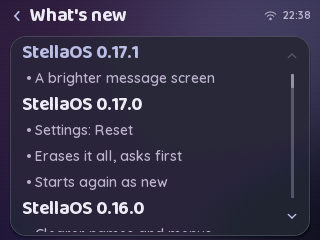
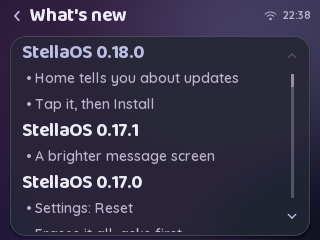
Home tells you about updates: a card when one is ready, installing, or waiting for a restart
A tap opens Settings > About > Software update; nothing installs from Home. A
version the person has looked at is not offered again until a restart or a newer
version. Wi-Fi setup and the time-zone question still come first. The simulator's
update server now offers a version newer than the running one, so the update
screenshots show an offer again.

Claude-Session: https://claude.ai/code/session_01WrCzyR31TQn5da2N4PH2yW

diff --git a/src/stella/apps/launcher.cpp b/src/stella/apps/launcher.cpp
@@ -70,7 +70,7 @@ void LauncherApp::syncLayout(AppContext &ctx) {
 void LauncherApp::save(AppContext &ctx) { ctx.saveAppRecord("layout", HomeLayoutRecord::kVersion, &layout_, sizeof(layout_)); }
 
 void LauncherApp::onTopic(uint16_t topicId, AppContext &ctx) {
-  if (topicId == topics::kNetwork) home_.refreshText(ctx);
+  if (topicId == topics::kNetwork || topicId == topics::kUpdate) home_.refreshText(ctx);
 }
 
 int LauncherApp::HomeScreen::pageCount() const {
@@ -246,9 +246,14 @@ void LauncherApp::HomeScreen::refreshText(AppContext &ctx) {
   const NetworkStatus net = ctx.network().status();
   const bool wifiSetup = net.present && net.state == WifiState::NotConfigured;
   const bool zoneAsk = !wifiSetup && net.present && net.connected && !ctx.status().zoneChosen;
-  const bool setup = wifiSetup || zoneAsk;
-  if (setup != setupNote_ || zoneAsk != noteZone_) {
+  // An update: offered (until the person has looked at it), installing, or waiting for a restart.
+  const UpdateStatus up = ctx.update().status();
+  const bool offered = up.state == UpdateState::Available && strcmp(up.version, seenOffer_) != 0;
+  const bool updateNote = !wifiSetup && !zoneAsk && (offered || up.state == UpdateState::Downloading || up.state == UpdateState::Ready);
+  const bool setup = wifiSetup || zoneAsk || updateNote;
+  if (setup != setupNote_ || zoneAsk != noteZone_ || updateNote != noteUpdate_) {
     noteZone_ = zoneAsk;
+    noteUpdate_ = updateNote;
     setupNote_ = setup;
     arrange();
     if (page_ >= pageCount()) page_ = 0;
@@ -260,6 +265,17 @@ void LauncherApp::HomeScreen::refreshText(AppContext &ctx) {
   } else if (zoneAsk) {
     snprintf(title, sizeof(title), "Choose your time zone");
     snprintf(text, sizeof(text), "So the clock and weather match you");
+  } else if (updateNote) {
+    if (up.state == UpdateState::Downloading) {
+      snprintf(title, sizeof(title), "Installing the update");
+      snprintf(text, sizeof(text), "%u%% \xc2\xb7 keep it powered", (unsigned)up.percent);
+    } else if (up.state == UpdateState::Ready) {
+      snprintf(title, sizeof(title), "Update ready");
+      snprintf(text, sizeof(text), "Restart to use %.15s", up.version);
+    } else {
+      snprintf(title, sizeof(title), "Update available");
+      snprintf(text, sizeof(text), "StellaOS %.15s is ready to install", up.version);
+    }
   } else if (now.valid) {
     const MoonPhase moon = moonPhase(now.epoch);
     snprintf(title, sizeof(title), "%s", moon.name);
@@ -336,7 +352,7 @@ void LauncherApp::HomeScreen::draw(Canvas &c, const Theme &t) {
     const int r = t.m.icon / 2 + t.dp(2);
     if (notePressed_) c.fillRoundRect(note_, t.m.radiusCard, p.accent, 40);
     paintBubble(c, t, inner.x + r, inner.centerY(), r, setupNote_ ? 2 : 1);
-    (noteZone_ ? icons::clock : setupNote_ ? icons::wifi : icons::moon)(c, center(Rect(inner.x, inner.y, 2 * r, inner.h), t.dp(16), t.dp(16)),
+    (noteUpdate_ ? icons::sparkle : noteZone_ ? icons::clock : setupNote_ ? icons::wifi : icons::moon)(c, center(Rect(inner.x, inner.y, 2 * r, inner.h), t.dp(16), t.dp(16)),
                                              p.accent);
     inner = Rect(inner.x + 2 * r + t.m.gapM, inner.y, inner.w - 2 * r - t.m.gapM, inner.h);
     Rect lines[2];
@@ -370,7 +386,13 @@ void LauncherApp::HomeScreen::draw(Canvas &c, const Theme &t) {
 bool LauncherApp::HomeScreen::onEvent(const Event &e, AppContext &ctx) {
   const Theme &t = ctx.theme();
   if (setupNote_ && trackPress(note_, e, notePressed_, ctx, note_.inset(-glassOutset(t)))) {
-    ctx.launch("settings", noteZone_ ? "time" : "wifi");
+    if (noteUpdate_) {
+      const UpdateStatus up = ctx.update().status();
+      if (up.state == UpdateState::Available) copyText(seenOffer_, sizeof(seenOffer_), up.version);  // looked at: no more nudges for it
+      ctx.launch("settings", "update");
+    } else {
+      ctx.launch("settings", noteZone_ ? "time" : "wifi");
+    }
     return true;
   }
   if (!pager_.empty()) {

diff --git a/tests/test_update.cpp b/tests/test_update.cpp
@@ -603,3 +603,79 @@ TEST(a_failed_install_leaves_no_crumb) {
   uint8_t stage = 0, percent = 0;
   CHECK(!update_crumb::take(&s.dev.platform, stage, percent));
 }
+
+// ---------------------------------------------------------------- Home tells you
+
+namespace {
+const char *topTitleOf(SimSession &s) { return s.os.topScreen() && s.os.topScreen()->title() ? s.os.topScreen()->title() : ""; }
+void tapNote(SimSession &s) {
+  const Rect r = s.launcher.noteBounds();
+  s.tap(r.centerX(), r.centerY());
+}
+}  // namespace
+
+TEST(home_says_when_an_update_is_ready_and_a_tap_opens_the_update_screen) {
+  SimSession s(320, 240);
+  s.os.goHome();
+  s.run(300);
+  CHECK(!has(s.launcher.noteTitle(), "Update"));  // nothing offered: the usual card
+  serve(s, Offer{});
+  CHECK(runCheck(s).state == UpdateState::Available);
+  s.os.goHome();
+  s.run(300);
+  CHECK(strcmp(s.launcher.noteTitle(), "Update available") == 0);
+  CHECK(has(s.launcher.noteText(), "99.0.0"));
+  tapNote(s);
+  s.run(200);
+  CHECK(strcmp(s.os.foreground()->info().id, "settings") == 0 && strcmp(topTitleOf(s), "Software update") == 0);
+  // Nothing was installed by looking: the person decides there.
+  CHECK(s.os.update().status().state == UpdateState::Available);
+  CHECK(!s.dev.firmware.finished);
+  // Back on Home the card has said its piece and does not nag about the same version again.
+  s.os.goHome();
+  s.run(300);
+  CHECK(!has(s.launcher.noteTitle(), "Update"));
+}
+
+TEST(home_follows_an_install_and_asks_for_the_restart) {
+  SimSession s(320, 240);
+  serve(s, Offer{});
+  runCheck(s);
+  s.os.goHome();
+  s.run(300);
+  s.os.update().install();  // (the simulated download is over within one step, so "Installing" cannot be caught here)
+  s.run(8000);
+  CHECK(s.os.update().status().state == UpdateState::Ready);
+  CHECK(strcmp(s.launcher.noteTitle(), "Update ready") == 0);
+  CHECK(has(s.launcher.noteText(), "Restart"));
+  tapNote(s);
+  s.run(200);
+  CHECK(strcmp(topTitleOf(s), "Software update") == 0);  // where Restart now is
+  CHECK_EQ(s.dev.platform.restarts(), 0);                // a tap on Home never restarts the device
+}
+
+TEST(a_seen_offer_returns_for_a_newer_version_and_the_time_zone_question_comes_first) {
+  SimSession s(320, 240);
+  serve(s, Offer{});
+  runCheck(s);
+  s.os.goHome();
+  s.run(300);
+  tapNote(s);  // looked at 99.0.0
+  s.os.goHome();
+  s.run(300);
+  CHECK(!has(s.launcher.noteTitle(), "Update"));
+  Offer newer;
+  newer.version = "99.1.0";
+  serve(s, newer);
+  runCheck(s);
+  s.os.goHome();
+  s.run(300);
+  CHECK(strcmp(s.launcher.noteTitle(), "Update available") == 0 && has(s.launcher.noteText(), "99.1.0"));
+  // A new device is asked for its time zone before anything else.
+  SimSession fresh(320, 240, kEveningEpoch, Appearance::Auto, false, true, false, /*newDevice=*/true);
+  serve(fresh, Offer{});
+  runCheck(fresh);
+  fresh.os.goHome();
+  fresh.run(300);
+  CHECK(strcmp(fresh.launcher.noteTitle(), "Choose your time zone") == 0);
+}

diff --git a/src/stella/apps/launcher.h b/src/stella/apps/launcher.h
@@ -46,6 +46,8 @@ class LauncherApp : public App {
   bool headerFits() const { return home_.wordsFit(); }
   static int labelInset(const Theme &t) { return t.dp(2); }  // a tile's name may use all but this much of its width
   Rect noteBounds() const { return home_.noteRect(); }  // the invitation under the apps (tests, screenshots)
+  const char *noteTitle() const { return home_.noteTitle(); }
+  const char *noteText() const { return home_.noteText(); }
   Rect greetingRect() const { return home_.greetingRect(); }
   Rect dateRect() const { return home_.dateRect(); }
 
@@ -70,6 +72,8 @@ class LauncherApp : public App {
     Rect greetingRect() const { return greeting_; }
     Rect dateRect() const { return date_; }
     Rect noteRect() const { return note_; }
+    const char *noteTitle() const { return noteTitle_; }
+    const char *noteText() const { return noteText_; }
     bool wordsFit() const { return chooseWords(theme_).fits; }  // the header text is not cut off
 
    private:
@@ -94,8 +98,10 @@ class LauncherApp : public App {
     bool pagerBelow_ = false;   // in the row of page dots, when the header is too narrow for them
     int columns_ = 3, rows_ = 2, gap_ = 8, page_ = 0, pressed_ = -1;
     char timeText_[16] = {0}, greetingText_[32] = {0}, greetingShort_[16] = {0}, dateShort_[24] = {0}, dateText_[48] = {0}, noteTitle_[32] = {0}, noteText_[48] = {0};
-    bool setupNote_ = false, notePressed_ = false;  // the note invites something: Wi-Fi setup or choosing a time zone
+    bool setupNote_ = false, notePressed_ = false;  // the note invites something: Wi-Fi setup, a time zone, or an update
     bool noteZone_ = false;                          // ... and this is the time zone one
+    bool noteUpdate_ = false;                        // ... or an update (offered, installing, or waiting for a restart)
+    char seenOffer_[16] = {0};                       // an offered version the person has already looked at: not offered again until a restart
     bool twelveHour_ = false;                       // the time has an AM/PM
     bool prevPressed_ = false, nextPressed_ = false;
   };

diff --git a/host/sim_main.cpp b/host/sim_main.cpp
@@ -27,7 +27,7 @@ int failures = 0;
 
 void tapRect(SimSession &s, const Rect &r) { s.tap(r.centerX(), r.centerY()); }
 
-// A pretend update server: version 0.9.0, a 1.3 MB image (the simulated
+// A pretend update server: version 99.0.0 (always newer than the running one), a 1.3 MB image (the simulated
 // firmware accepts the "signature" of all 0x5a bytes).
 void serveUpdate(SimSession &s) {
   std::string image(1300000, 'x');
@@ -38,7 +38,7 @@ void serveUpdate(SimSession &s) {
   toHex(digest, 32, hex);
   std::string rs;
   for (int i = 0; i < 32; ++i) rs += "5a";
-  const std::string manifest = std::string("{\"version\":\"0.9.0\",\"url\":\"https://updates.example/stella32.bin\",\"size\":") +
+  const std::string manifest = std::string("{\"version\":\"99.0.0\",\"url\":\"https://updates.example/stella32.bin\",\"size\":") +
                                std::to_string(image.size()) + ",\"sha256\":\"" + hex + "\",\"sig_r\":\"" + rs +
                                "\",\"sig_s\":\"" + rs + "\"}";
   s.dev.firmware.slotSize = 1966080;  // the 1.9 MB app slot of the OTA layout
@@ -240,6 +240,10 @@ void capture(int width, int height, const std::string &root) {
       tapRect(s, action);
       s.run(3000);
       save(24, "update-available");
+      s.os.goHome();  // Home says so too, without a trip through Settings
+      s.run(300);
+      save(50, "home-update");
+      s.os.launch("settings");
       tapRect(s, action);
       s.run(9000);
       save(25, "update-ready");

diff --git a/src/stella/apps/changelog.cpp b/src/stella/apps/changelog.cpp
@@ -7,6 +7,7 @@ namespace {
 // Newest first. Add an entry when STELLA_VERSION goes up; a test checks the
 // top one matches the running version.
 const ChangelogEntry kChangelog[] = {
+    {"0.18.0", {"Home tells you about updates", "Tap it, then Install", nullptr}},
     {"0.17.1", {"A brighter message screen", nullptr}},
     {"0.17.0", {"Settings: Reset", "Erases it all, asks first", "Starts again as new", nullptr}},
     {"0.16.0", {"Clearer names and menus", "Header text never cut off", "Asks for your time zone", nullptr}},

diff --git a/src/stella/apps/settings_app.cpp b/src/stella/apps/settings_app.cpp
@@ -115,6 +115,10 @@ void SettingsApp::onRoute(const char *route, AppContext &ctx) {
   if (route && strcmp(route, "idle") == 0) ctx.push(idle_);
   if (route && strcmp(route, "calendar") == 0) ctx.push(calendar_);
   if (route && strcmp(route, "reset") == 0) ctx.push(reset_);
+  if (route && strcmp(route, "update") == 0) {  // Settings > About > Software update, with About to go back to
+    ctx.push(about_);
+    ctx.push(softwareUpdate_);
+  }
 }
 
 // ------------------------------------------------------------------ main list

diff --git a/src/stella/runtime/runtime.h b/src/stella/runtime/runtime.h
@@ -27,7 +27,7 @@
 #include "event_queue.h"
 
 #ifndef STELLA_VERSION
-#define STELLA_VERSION "0.17.1"
+#define STELLA_VERSION "0.18.0"
 #endif
 
 namespace stella {

diff --git a/README.md b/README.md
@@ -16,7 +16,7 @@ management and versioned settings.
 
 | | |
 | --- | --- |
-| Version | 0.17.1 (a fullscreen screen that is read is not dimmed like an idle face), 0.17.0 (Settings > Reset: erase everything saved and start again as new; a Greeting app and an opt-in gift build), 0.16.0 (polish for newcomers: a header that is never cut off, clearer names, 36 time zones and ~57 weather places, a time-zone prompt on first run, a getting-started guide, a random-input stability test), 0.15.0 (the Stats app: numbers pushed from a script), 0.14.0 (the Calendar app: events from an iCal feed, set on the remote page), 0.13.1 (remote page fix, gentler wallpaper defaults), 0.13.0 (units: °C/°F, week start, date order; a dashboard idle face; sunrise/sunset on the bedside clock), 0.12.0 (a web page on your Wi-Fi, wallpaper from your phone), 0.11.1 (the weather request fixed), 0.11.0 (the sky follows the real sunrise and sunset), 0.10.0 (What's new after an update, a customisable Home), 0.9.0 (the next hours and a rain outlook), 0.8.4 (a bigger time on Home), 0.8.3 (sunrise and sunset on Weather), 0.8.2 (Home header with the time, StellaOS name), 0.8.1 (brighter alert LED), 0.8.0: status LED, Find my LED, ambient-light dimming with a calibration (0.7.x added update diagnostics and gentler flash writes; the screen-transition experiment was removed again) |
+| Version | 0.18.0 (Home shows a card when an update is ready, installing, or waiting for a restart), 0.17.1 (a fullscreen screen that is read is not dimmed like an idle face), 0.17.0 (Settings > Reset: erase everything saved and start again as new; a Greeting app and an opt-in gift build), 0.16.0 (polish for newcomers: a header that is never cut off, clearer names, 36 time zones and ~57 weather places, a time-zone prompt on first run, a getting-started guide, a random-input stability test), 0.15.0 (the Stats app: numbers pushed from a script), 0.14.0 (the Calendar app: events from an iCal feed, set on the remote page), 0.13.1 (remote page fix, gentler wallpaper defaults), 0.13.0 (units: °C/°F, week start, date order; a dashboard idle face; sunrise/sunset on the bedside clock), 0.12.0 (a web page on your Wi-Fi, wallpaper from your phone), 0.11.1 (the weather request fixed), 0.11.0 (the sky follows the real sunrise and sunset), 0.10.0 (What's new after an update, a customisable Home), 0.9.0 (the next hours and a rain outlook), 0.8.4 (a bigger time on Home), 0.8.3 (sunrise and sunset on Weather), 0.8.2 (Home header with the time, StellaOS name), 0.8.1 (brighter alert LED), 0.8.0: status LED, Find my LED, ambient-light dimming with a calibration (0.7.x added update diagnostics and gentler flash writes; the screen-transition experiment was removed again) |
 | First board | ESP32-2432S028R "Cheap Yellow Display" (2.8" 320x240, XPT2046) |
 | Host tests | 219 tests under ASan + UBSan, incl. touch-driven Wi-Fi onboarding, alarms, the stopwatch and the update flow; screenshots at 320x240 and 480x320 |
 | Firmware build | Compiles with Arduino-ESP32 3.3.12: 1.48 MB flash (75% of a 1.9 MB update slot), 84 KB static RAM (25%) |
@@ -244,7 +244,12 @@ start. See [Architecture > Gift builds](docs/ARCHITECTURE.md).
     *Birthday* on Home, unplug, power on: the message comes first. Back goes back a
     page; the web address on page 4 is whole, not cut. Then flash the *ordinary* build
     (or update over the air): the message app is still on Home and the words are intact.
-24. Leave it running overnight; no `restarting` line in the log and the
+24. *Update card*: with *Check daily* on and a newer version published, Home shows
+    "Update available" (within a few minutes of boot); tap it: the update screen opens
+    (nothing installs yet); go back to Home and the card is gone until the next restart.
+    Install: the card shows the progress, then "Update ready"; Restart now; keep it powered
+    for a minute afterwards.
+25. Leave it running overnight; no `restarting` line in the log and the
    minimum heap in the `health` line stays stable.
 
 ## Roadmap

diff --git a/docs/ARCHITECTURE.md b/docs/ARCHITECTURE.md
@@ -451,7 +451,13 @@ new firmware, with no USB cable and nothing to set up beyond one flash.
 screen): the update job makes a quiet check two minutes after boot and then
 once a day, only from a calm state (never over an offer or a result nobody has
 seen), and shows nothing of a failure (it retries after 30 minutes, backing off
-to 6 hours); an offer appears as "Update x.y.z" on Settings' About row
+to 6 hours); an offer appears as "Update x.y.z" on Settings' About row **and as a card
+on Home** (*Update available · StellaOS x.y.z is ready to install*; while it installs
+*Installing the update · NN %*, and when it waits *Update ready · Restart to use x.y.z*).
+A tap on the card opens the update screen, where Install and Restart are; it installs
+nothing itself. Once the person has looked at an offered version the card stops showing
+it until the next restart or a newer version. The Wi-Fi and time-zone invitations come
+first, and turning *Check daily* off means nothing is offered unasked
 (`net/firmware_update.*`, `tools/update_tool.py`):
 
 1. **Publishing is automatic.** The `Publish update` workflow runs on every

diff --git a/docs/GETTING_STARTED.md b/docs/GETTING_STARTED.md
@@ -56,6 +56,13 @@ Two more are off until you want them (*Settings > Home screen*):
 - **Reset**: erases everything saved on the device (Wi-Fi, settings, alarms, wallpaper)
   and starts again as new. It asks first; the software stays.
 
+## Updates
+
+Once a day (when Wi-Fi is on) the device looks for a newer version by itself. If it finds one, Home
+says so: tap the card, then *Install*, then *Restart now*. Nothing installs unless you tap, and after
+the restart keep it powered for a minute so the new version is kept. *Settings > About > Software
+update* has a *Check daily* switch if you would rather it didn't look.
+
 ## Good to know
 
 - Everything is saved on the device and survives a restart.
